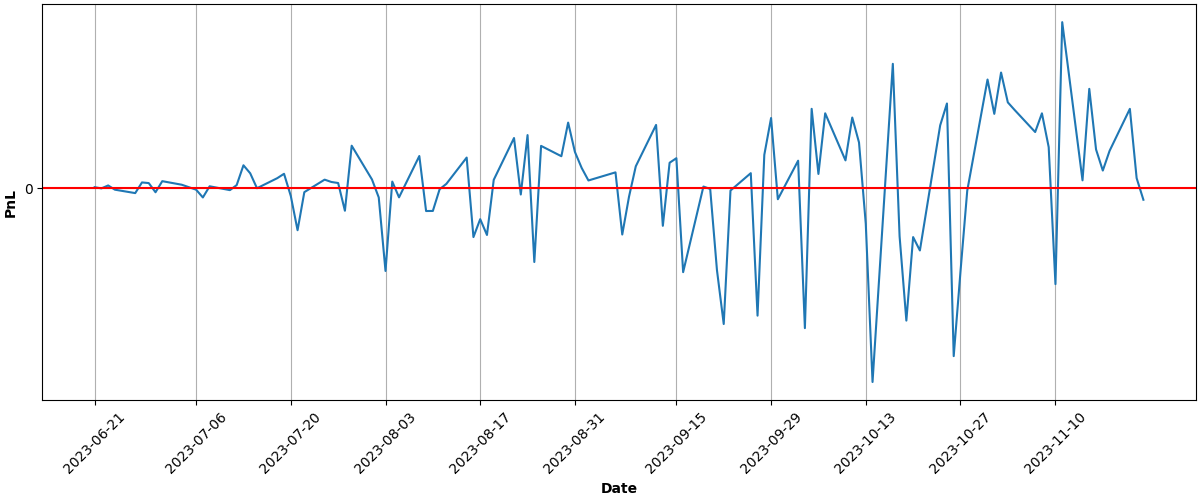
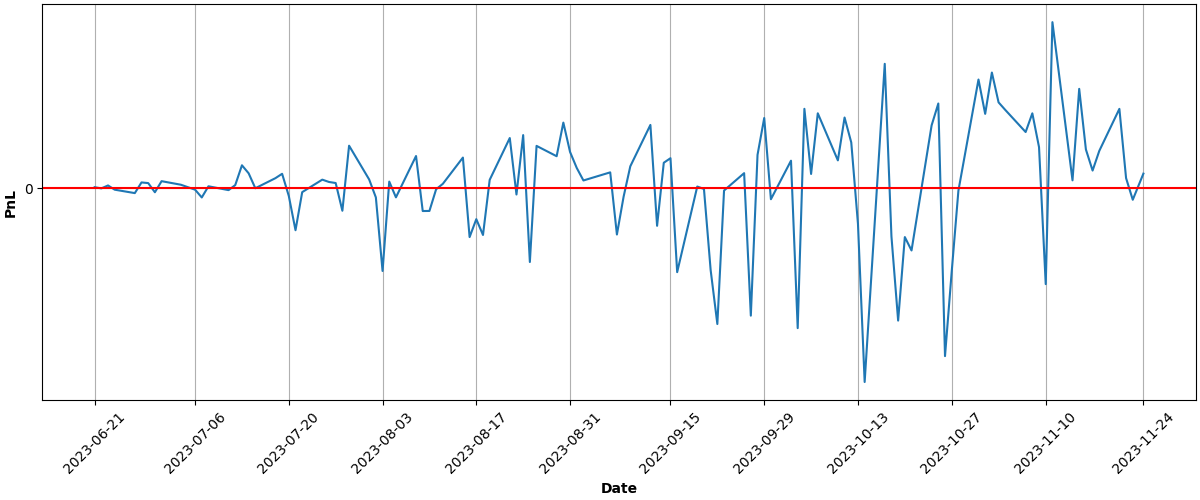
Automated Buy At Fri Nov 24 15:04:35 UTC 2023 Run ID 6982286835

diff --git a/README.md b/README.md
@@ -68,9 +68,9 @@ Results
 
 | Asset | Average Price | Current Price | ROI | 📈 |
 | --- | --- | --- | --- | --- |
-| FNGU | $172.682603197 | $204.5 | 18.43% | &#128994;&#128515; |
-| SVIX | $28.291173333 | $32.83 | 16.04% | &#128994;&#128515; |
-| **Total** |  |  | **17.16%** | &#128994;&#128518; |
+| FNGU | $173.142034085 | $202.96 | 17.22% | &#128994;&#128515; |
+| SVIX | $28.395930434 | $33.3201 | 17.34% | &#128994;&#128515; |
+| **Total** |  |  | **17.29%** | &#128994;&#128518; |
 
 ### PnL over time (calculations may not be accurate):
 
@@ -81,6 +81,6 @@ Results
 ---
 
 
-Updated at 2023-11-23 15:04:54
+Updated at 2023-11-24 15:04:50
 
 
